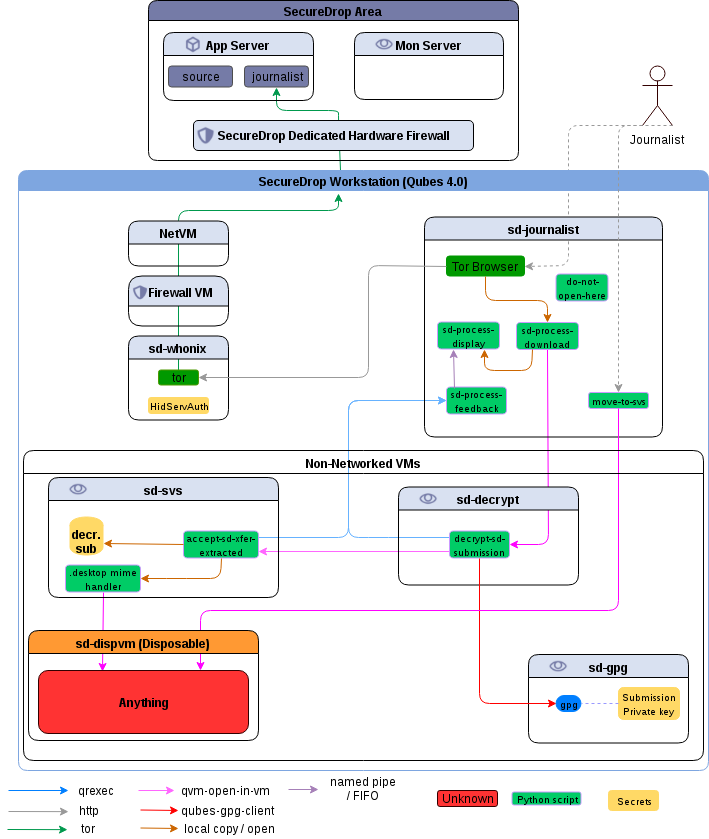
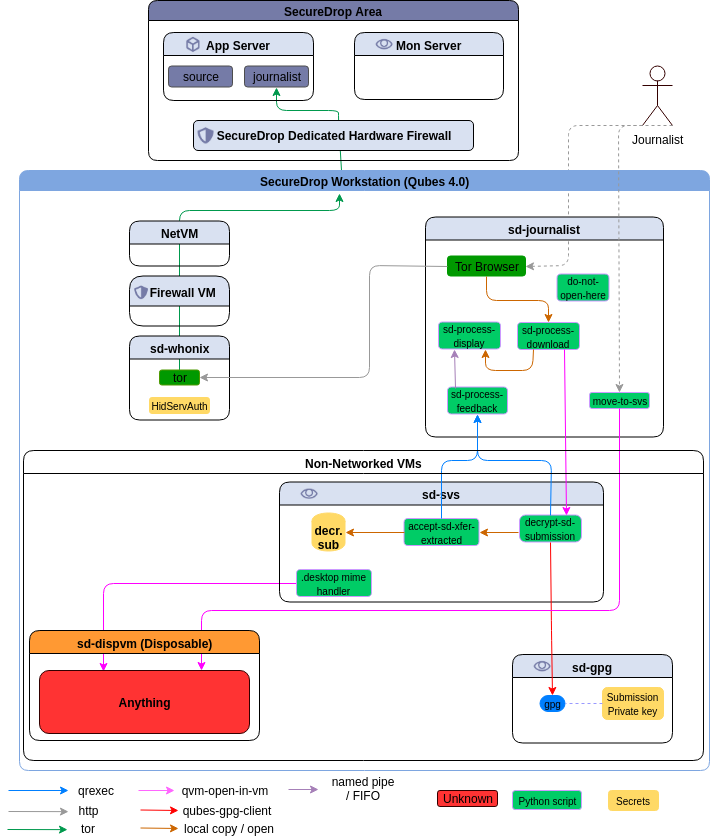
Update docs and data flow diagram
Reflect the removal of sd-decrypt

diff --git a/README.md b/README.md
@@ -100,9 +100,9 @@ Submissions are processed in the following steps:
 1. Journalist uses the Tor Browser in the `sd-journalist` VM to visit the authenticated Tor hidden service Journalist Interface. After logging in, the journalist clicks
 on any submission of interest.
 2. The Tor Browser in the `sd-journalist` VM offers to open the submission with the configured handler (`sd-process-download`).
-3. The `sd-process-download` script, run by Tor Browser, moves the submission to a disposable VM.[1]
-4. In the disposable VM, the submission is unarchived and decrypted using Qubes' split-GPG functionality (decryption is done in a trusted, isolated VM, keeping GPG keys off of the system-wide DispVM).
-5. The decrypted submission is copied to the `sd-svs` Secure Viewing Station VM, where it's placed in the `Sources` directory based on the source name.
+3. The `sd-process-download` script, run by Tor Browser, moves the submission to the svs for decryption.
+4. In the SVS VM, the submission is unarchived and decrypted using Qubes' split-GPG functionality (decryption is done in a trusted, isolated VM, keeping GPG keys off of the system-wide DispVM).
+5. The decrypted submission is stored on the `sd-svs` Secure Viewing Station VM, where it's placed in the `Sources` directory based on the source name.
 6. Any file viewed in the Secure Viewing Station is opened in a Disposable VM, largely mitigating attacks from malicious content.
 
 See below for a closer examination of this process, and see `docs/images` for screenshots related to the steps above.
@@ -118,9 +118,7 @@ Qubes uses SaltStack internally for VM provisionining and configuration manageme
 - `move-to-svs` will explore all files in Tor Browser's Downloads directory, and attempt to process them all. This script is run by hand, and shouldn't be necessary in day-to-day use.
 - `sd-process-download` is configured as the VM's `application/zip` mime type handler, so Tor Browser will by default open SD submissions with this script.
 
-`sd-svs` contains scripts and configuration for the viewing station VM. These include a script to handle incoming, decrypted files during the submission handling process, and desktop configuration files to make this VM open all files in a disposable VM.
-
-`decrypt` contains scripts for the VMs handling decryption. These get used both while configuring the disposable VM, and when provisioning the split GPG VM (`sd-gpg`). These should probably be separated into two directories: one for `sd-gpg` and one for the disposable VM config.
+`sd-svs` contains scripts and configuration for the viewing station VM. These include a script to handle incoming, encrypted files during the submission handling process, and desktop configuration files to make this VM decrypt the files using `sd-gpg` and open all files in a disposable VM.
 
 `config.json.sample` is an example config file for the provisioning process. Before use, you should copy it to `config.json`, and adjust to reflect your environment.
 
@@ -259,11 +257,10 @@ The *Display VM* is disposable, does not have network access, and is used to dis
   * Access plaintext passwords to the Journalist interface.
 * An adversary can attempt to elevate their privileges and escape the VM.
 
-#### What Compromise of the *Decryption VM* Can Achieve
-
-The *Decryption VM* is disposable, does not have network access, and is used to decrypt only one submission before being destroyed.
-
-* An adversary can initiate arbitrary decryption of messages and submissions, but cannot access the decrypted contents.
+#### What compromise of the *SVS VM* can achieve
+The *SVS VM* does not have network access, and the Qubes split-gpg mechanism permits access to GPG keys from this VM.
+* An adversary can view all decrypted submissions.
+* An adversary can decrypt arbitrary submission.
 * An adversary can attempt to elevate their privileges and escape the VM.
 
 #### What Compromise of the *GPG VM* Can Achieve
